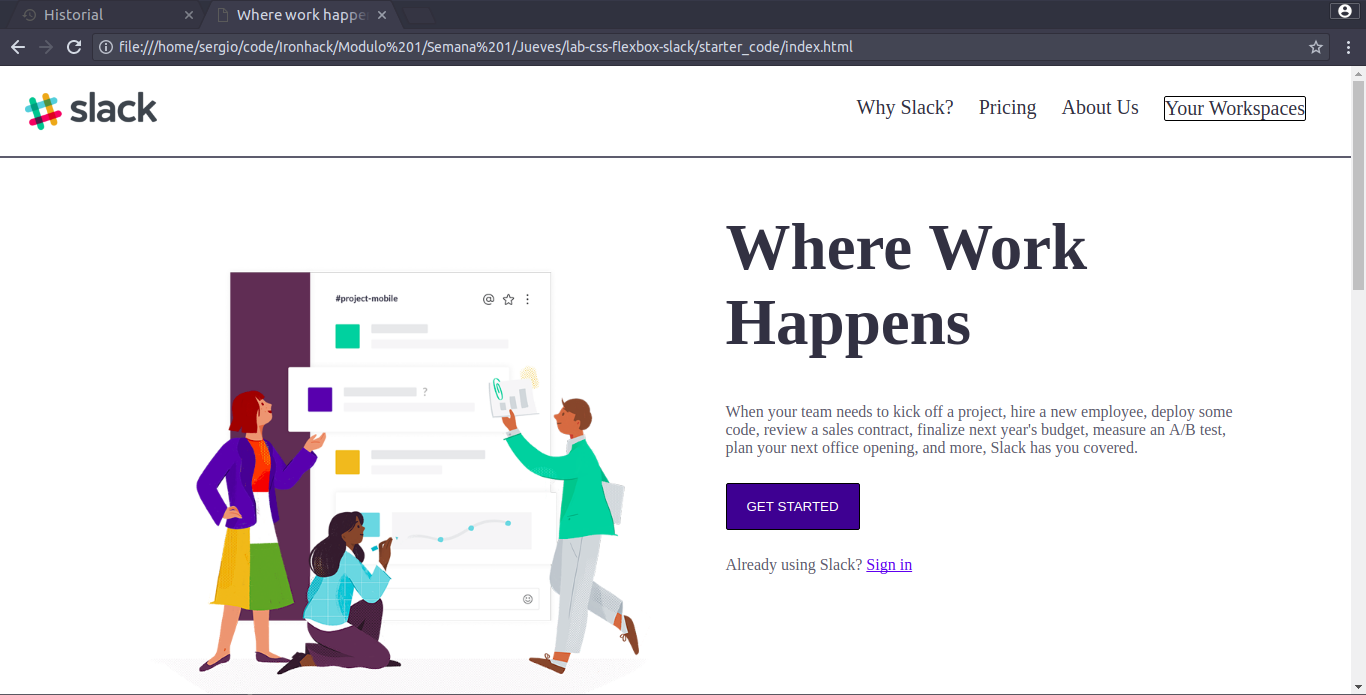
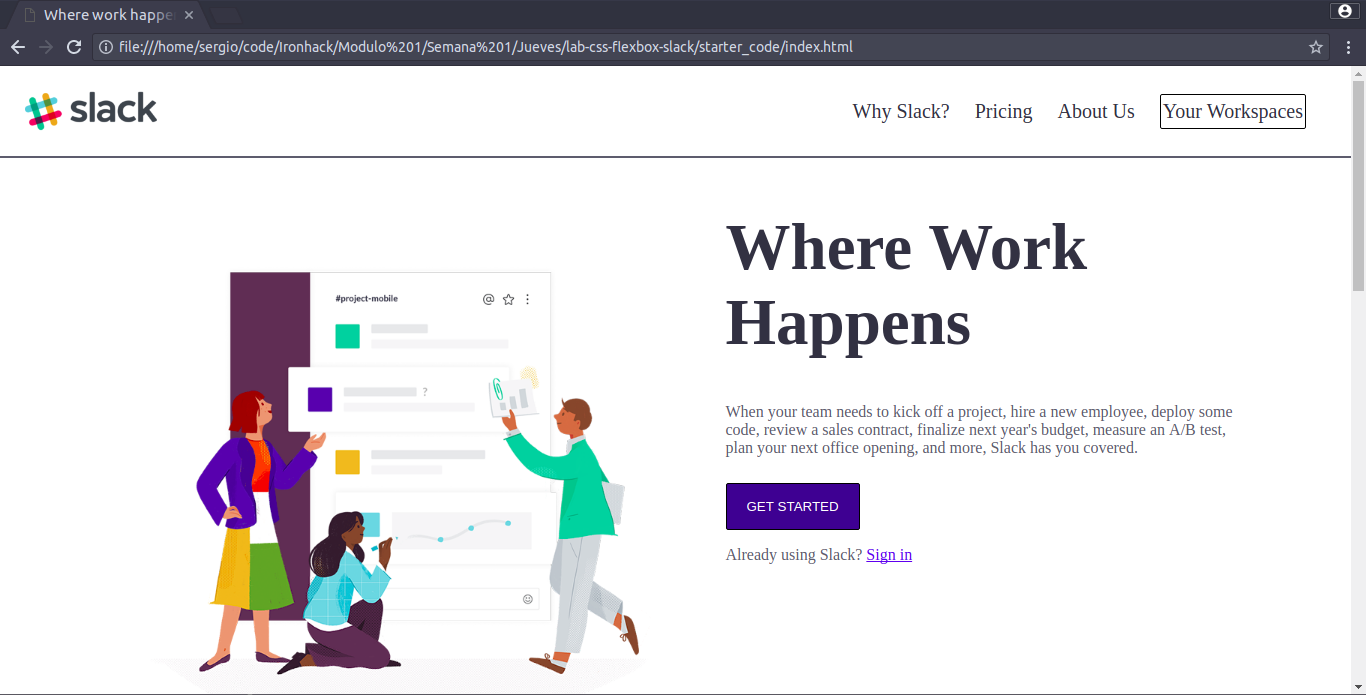
Iteracion 3 completada

diff --git a/starter_code/stylesheets/style.css b/starter_code/stylesheets/style.css
@@ -6,6 +6,9 @@ paragraph grey: #5b5e6d;
 nav grey: #5b5e6d;
 */
 
+@import url("//netdna.bootstrapcdn.com/bootstrap/3.0.0/css/bootstrap-glyphicons.css");
+
+
 body {
     margin: 0 auto;
 }
@@ -20,12 +23,9 @@ body {
 }
 
 .btn {
-    text-align: center;
-    vertical-align: middle;
     border: 1px solid #000;
     border-radius: 2px;
-    margin-top: 5px;
-    margin-bottom: 10px;
+    padding: 5px 2px;
 }
 
 .nav-bar {
@@ -48,6 +48,7 @@ body {
     display: flex;
     flex-flow: row nowrap;
     justify-content: flex-end;
+    align-items: center;
 }
 
 .nav-bar-li {
@@ -55,10 +56,12 @@ body {
     list-style-type: none;
     font-size: 20px;
     width: auto;
-    margin-top: 5px;
     margin-right: 25px;
-    text-align: center;
-    vertical-align: middle;
+}
+
+.glyphicon {
+        height: 0;
+        width: 0;
 }
 
 .header {
@@ -68,8 +71,43 @@ body {
     justify-content: center;
 }
 
-.header img {
+@media (max-width: 1024px) {
+    .nav-bar-ul {
+        max-width: 0;
+        max-height: 0;
+    }
 
+    .nav-bar-li {
+        font-size: 0px;
+        width: 0;
+        height: 0px;
+    }
+
+    .btn {
+        border-width: 0px;
+    }
+
+    .glyphicon {
+        height: 30px;
+        width: 30px;
+        float: right;
+        margin-right: 50px;
+    }
+
+    .header {
+        flex-flow: column-reverse nowrap;
+        align-items: center;
+        padding: 0;
+    }
+
+    .header img {
+        padding: 0;
+        margin: 0 auto;
+        margin-left: -250px;
+    }
+}
+
+.header img {
     padding-top: 100px;
     padding-left: 150px;
     height: 450px;
@@ -150,6 +188,12 @@ h1 {
     max-width: 60%;
     max-height: 60%;
     padding: 50px 50px;
+}
+
+@media (max-width: 960px) {
+    .col-3 {
+        width: 50%;
+    }
 }
 
 .try-free {

diff --git a/starter_code/index.html b/starter_code/index.html
@@ -19,6 +19,9 @@
             <li class="nav-bar-li">About Us</li>
             <li class="nav-bar-li btn">Your Workspaces</li>
         </ul>
+        <button class="glyphicon" type="button" class="btn btn-default" aria-label="Left Align">
+            <span class="glyphicon glyphicon-list" aria-hidden="true"></span>
+        </button>
     </nav>
     <header class="header">
         <div class="col-2">
